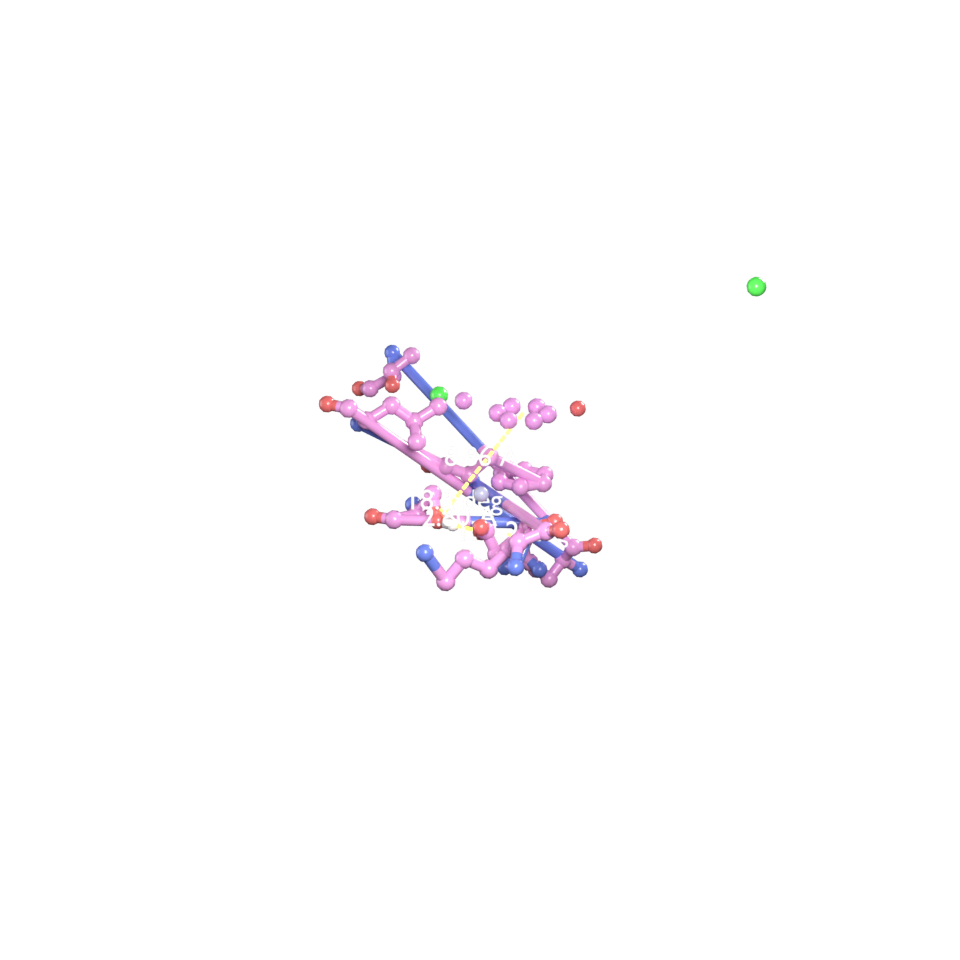
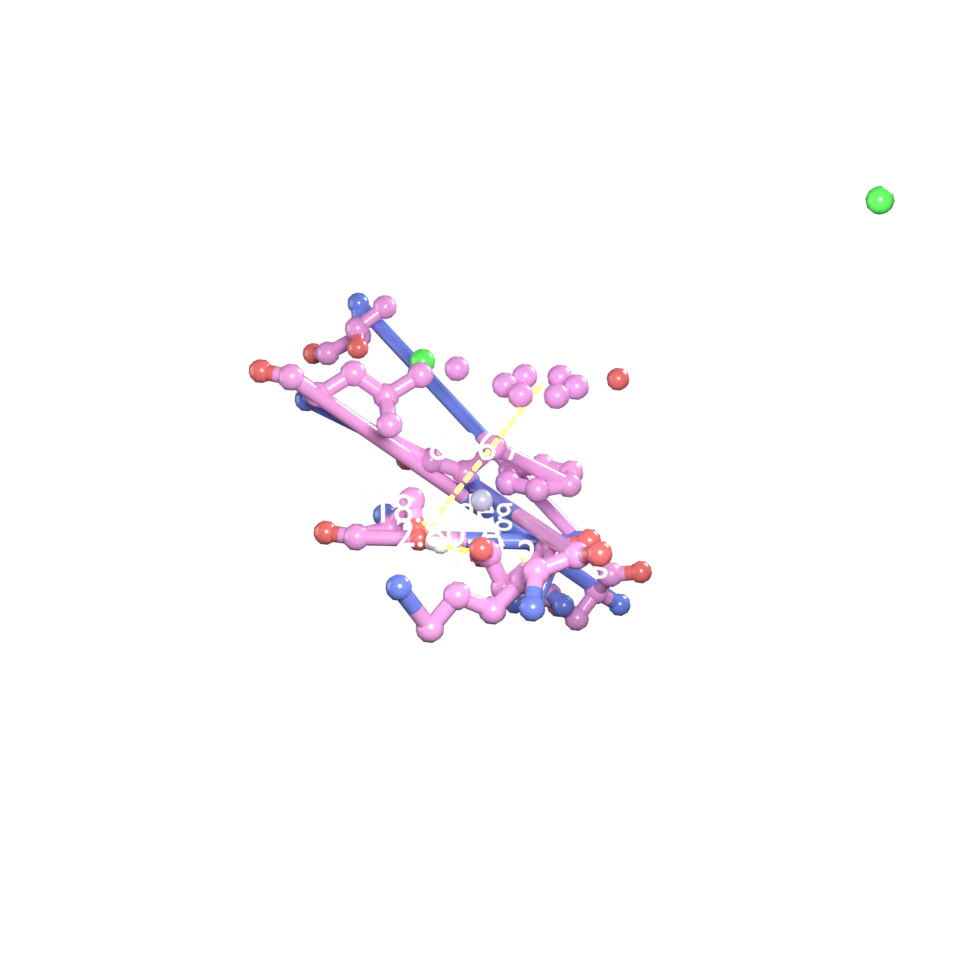
Frame the molecule, not the sphere around it
frame_target backed the camera off until the target's bounding *sphere* fit
the frame. A molecule is not a sphere: the sphere circumscribes it and the
silhouette only touches it where the single most distant atom happens to be,
so the molecule filled under half the width of every generated figure.

Project the atoms onto the camera's own axes instead and solve for the
distance at which the extreme one lands on the frame edge. A point at depth z
beyond the centre is inside the horizontal field of view while
|x| <= (d + z) * tan(h), so d = max(|x| / tan(h) - z) over every point and
both axes — perspective included, rather than assumed away. Both field-of-view
axes are used now, not the narrower one, because which one runs out of room
depends on how the molecule is turned.

margin keeps its meaning and gains precision: it multiplies the projected
extent, so 1.0 puts the outermost atom exactly on the frame edge.

Across the vignette figures the molecule went from filling 47-63% of the frame
to 67-80%. Vignettes 2 and 3 had margins of 1.3 and 1.4 hand-tuned against the
old slack, and come back to 1.15 and 1.2.

The bounding-sphere fit stays for targets with no points to project, and is
still a sphere tangent to the frustum, hence sin rather than tan.

Changed region(s): [[0.25, 0.2812, 0.6875, 0.6875], [0.9062, 0.1875, 0.9375, 0.2188], [0.7812, 0.2812, 0.8125, 0.3125]]

diff --git a/blender_gala/scene/camera.py b/blender_gala/scene/camera.py
@@ -4,6 +4,10 @@ Molecular Nodes' ``Camera`` helper adjusts an existing camera. Gala adds the
 part that matters when you have just imported a structure and there is either
 no camera or one pointing at nothing: put a camera somewhere sensible and frame
 the molecule so it fills the frame with a predictable margin.
+
+"Fills the frame" means the atoms as they project from the chosen viewpoint.
+Molecules are not spherical, and fitting the sphere around one — the usual
+shortcut, and what this did first — leaves it filling under half the frame.
 """
 
 from __future__ import annotations
@@ -81,29 +85,76 @@ def ensure_camera(scene: Any = None, lens: float = 85.0) -> Any:
     return obj
 
 
-def _fit_distance(radius: float, camera_data: Any, scene: Any, margin: float) -> float:
-    """Distance at which a sphere of ``radius`` fits the frame."""
+def _half_fov_tangents(camera_data: Any, scene: Any) -> tuple[float, float]:
+    """Return ``(horizontal, vertical)`` half-field-of-view tangents.
+
+    Both axes, rather than the narrower one, because a molecule is not round:
+    which axis it runs out of room in depends on how it is turned.
+    """
     render = scene.render
     width = render.resolution_x * render.pixel_aspect_x
     height = render.resolution_y * render.pixel_aspect_y
+    aspect = (width / height) if height else 1.0
+    lens = max(camera_data.lens, 1e-6)
 
     sensor_fit = camera_data.sensor_fit
-    if sensor_fit == "VERTICAL":
-        sensor = camera_data.sensor_height
-        extent = height
-    elif sensor_fit == "HORIZONTAL":
-        sensor = camera_data.sensor_width
-        extent = width
-    else:  # AUTO: the larger image dimension uses the sensor width
-        sensor = camera_data.sensor_width
-        extent = max(width, height)
+    if sensor_fit == "VERTICAL" or (sensor_fit == "AUTO" and height > width):
+        sensor = (
+            camera_data.sensor_height
+            if sensor_fit == "VERTICAL"
+            else camera_data.sensor_width
+        )
+        tan_v = sensor / (2.0 * lens)
+        tan_h = tan_v * aspect
+    else:  # HORIZONTAL, or AUTO where the width is the larger dimension
+        tan_h = camera_data.sensor_width / (2.0 * lens)
+        tan_v = tan_h / aspect if aspect else tan_h
 
-    # Half-angle of the *narrower* of the two field-of-view axes, so the
-    # molecule fits in both directions rather than being cropped in one.
-    aspect = min(width, height) / extent if extent else 1.0
-    half_fov = math.atan((sensor * aspect) / (2.0 * camera_data.lens))
-    half_fov = max(half_fov, 1e-3)
-    return float(radius * margin / math.sin(half_fov))
+    return max(tan_h, 1e-6), max(tan_v, 1e-6)
+
+
+def _fit_distance(radius: float, camera_data: Any, scene: Any, margin: float) -> float:
+    """Distance at which a sphere of ``radius`` fits the frame.
+
+    The fallback for targets whose individual points are not available. A
+    sphere is tangent to the frustum rather than spanning it, hence ``sin``.
+    """
+    tan_h, tan_v = _half_fov_tangents(camera_data, scene)
+    half_fov = math.atan(min(tan_h, tan_v))
+    return float(radius * margin / math.sin(max(half_fov, 1e-3)))
+
+
+def _fit_distance_to_points(
+    points: np.ndarray,
+    centre: np.ndarray,
+    basis: tuple[np.ndarray, np.ndarray, np.ndarray],
+    camera_data: Any,
+    scene: Any,
+    margin: float,
+) -> float:
+    """Distance at which every point in ``points`` is inside the frame.
+
+    Fitting the bounding *sphere* is what a camera helper usually does, and it
+    wastes most of the frame: the sphere circumscribes the molecule, so the
+    silhouette only touches it where the single most distant atom is. On the
+    vignette structures that left the molecule filling under half the width.
+
+    This projects the atoms onto the camera's own axes instead and solves for
+    the distance at which the extreme one lands on the frame edge. A point at
+    depth ``z`` beyond the centre is inside the horizontal field of view while
+    ``|x| <= (d + z) * tan(h)``, so ``d = max(|x| / tan(h) - z)`` over every
+    point and both axes. Perspective is in the ``- z``: atoms nearer the camera
+    need more room than atoms behind the centre.
+    """
+    right, up, forward = basis
+    tan_h, tan_v = _half_fov_tangents(camera_data, scene)
+
+    relative = np.asarray(points, dtype=float) - centre
+    x = np.abs(relative @ right) * margin
+    y = np.abs(relative @ up) * margin
+    depth = relative @ forward
+
+    return float((np.maximum(x / tan_h, y / tan_v) - depth).max())
 
 
 def frame_target(
@@ -123,8 +174,9 @@ def frame_target(
         A key of :data:`VIEWPOINTS`, or an ``(azimuth, elevation)`` pair in
         degrees.
     margin : float, optional
-        Extra room around the molecule. ``1.0`` is a tight fit; the default
-        leaves a little air so atoms do not touch the frame edge.
+        Extra room around the molecule, as a multiple of its projected extent.
+        ``1.0`` puts the outermost atom exactly on the frame edge; the default
+        leaves a little air so atoms do not touch it.
     camera : bpy.types.Object, optional
         Camera to move. Defaults to the scene camera, created if absent.
     scene : bpy.types.Scene, optional
@@ -161,22 +213,43 @@ def frame_target(
         azimuth, elevation = float(angles[0]), float(angles[1])
 
     centre, radius = _target_bounds(target, scene)
-    distance = _fit_distance(radius, camera.data, scene, margin)
 
+    # The viewing direction does not depend on how far away the camera ends up,
+    # so it is fixed first and the distance solved for along it.
     az = math.radians(azimuth)
     el = math.radians(elevation)
-    horizontal = distance * math.cos(el)
-    offset = np.array(
+    unit = np.array(
         [
-            horizontal * math.sin(az),
-            -horizontal * math.cos(az),
-            distance * math.sin(el),
+            math.cos(el) * math.sin(az),
+            -math.cos(el) * math.cos(az),
+            math.sin(el),
         ]
     )
 
+    # The camera's own axes, taken from the orientation it will be given, so
+    # the projection below is the one the render will use.
+    orientation = Vector((-unit).tolist()).to_track_quat("-Z", "Y")
+    basis = (
+        np.array(orientation @ Vector((1.0, 0.0, 0.0))),  # right
+        np.array(orientation @ Vector((0.0, 1.0, 0.0))),  # up
+        np.array(orientation @ Vector((0.0, 0.0, -1.0))),  # forward
+    )
+
+    points = _subject_points(target, scene)
+    if points is None or len(points) == 0:
+        distance = _fit_distance(radius, camera.data, scene, margin)
+    else:
+        distance = _fit_distance_to_points(
+            points, centre, basis, camera.data, scene, margin
+        )
+        # Framing the silhouette can put the camera inside a molecule seen
+        # end-on, where the extent across the view is small and the extent
+        # along it is not.
+        distance = max(distance, radius * 1.25)
+
+    offset = unit * distance
     camera.location = tuple(float(v) for v in (centre + offset))
-    direction = Vector((-offset).tolist())
-    camera.rotation_euler = direction.to_track_quat("-Z", "Y").to_euler()
+    camera.rotation_euler = orientation.to_euler()
 
     camera.data.clip_start = max(1e-4, distance - radius * 4.0)
     camera.data.clip_end = distance + radius * 8.0
@@ -189,6 +262,44 @@ def _target_bounds(target: Any, scene: Any) -> tuple[np.ndarray, float]:
     from .lighting import _subject_bounds
 
     return _subject_bounds(target, scene)
+
+
+def _subject_points(target: Any, scene: Any) -> np.ndarray | None:
+    """World-space points to fit in the frame, or ``None`` if there are none.
+
+    Atom positions when the target is a molecule, and bounding-box corners
+    otherwise: a box is still a much closer fit than the sphere around it.
+    """
+    from ..core.entity import AtomStructure
+
+    if target is not None:
+        try:
+            structure = AtomStructure.from_any(target)
+        except Exception:
+            structure = None
+        if structure is not None and structure.n_atoms and structure.object is not None:
+            return structure.world_positions()
+
+    if bpy is None:
+        return None
+
+    if isinstance(target, bpy.types.Object):
+        objects = [target]
+    elif target is None:
+        objects = [
+            obj
+            for obj in scene.objects
+            if obj.type == "MESH" and not obj.get("gala") and obj.visible_get()
+        ]
+    else:
+        return None
+
+    corners = [
+        np.array(obj.matrix_world @ Vector(corner))
+        for obj in objects
+        for corner in obj.bound_box
+    ]
+    return np.asarray(corners) if corners else None
 
 
 def orbit(

diff --git a/tests/test_scene.py b/tests/test_scene.py
@@ -440,6 +440,41 @@ def test_frame_target_fits_the_molecule(site_molecule):
     assert 0.0 <= projected.y <= 1.0
 
 
+@requires_mn
+def test_framing_is_tight_to_the_projected_atoms(site_molecule):
+    """Every atom inside the frame, and one of them near its edge.
+
+    Fitting the bounding sphere instead leaves the molecule filling under half
+    the frame, because the sphere only touches the silhouette where the single
+    most distant atom is.
+    """
+    import bpy
+    from bpy_extras.object_utils import world_to_camera_view
+    from mathutils import Vector
+
+    from blender_gala.core.entity import AtomStructure
+    from blender_gala.scene import camera, render
+
+    render.set_resolution(800, 800)
+    structure = AtomStructure.from_any(site_molecule)
+    margin = 1.15
+
+    obj = camera.frame_target(structure, viewpoint="iso", margin=margin)
+
+    projected = np.array(
+        [
+            world_to_camera_view(bpy.context.scene, obj, Vector(point.tolist()))[:2]
+            for point in structure.world_positions()
+        ]
+    )
+    assert projected.min() >= 0.0 and projected.max() <= 1.0, "an atom fell outside"
+
+    # Half of 1/margin of the frame, measured from the centre: the outermost
+    # atom has to reach it on at least one axis, or the fit is not a fit.
+    reach = np.abs(projected - 0.5).max()
+    assert reach > 0.5 / margin - 0.06, f"framing is loose: reach {reach:.3f}"
+
+
 # ---------------------------------------------------------------------------
 # Compositing
 # ---------------------------------------------------------------------------

diff --git a/vignettes/02_binding_site.py b/vignettes/02_binding_site.py
@@ -133,7 +133,9 @@ gala.label_hud(mol, "Ligand binding site", location=(0.04, 0.95), size=28)
 # ---------------------------------------------------------------------------
 heading("6. Frame the site rather than the whole protein")
 # ---------------------------------------------------------------------------
-gala.frame_target(mol, viewpoint="iso", margin=1.3)
+# The margin only has to clear the labels and dashes drawn around the
+# molecule; the framing itself is now tight to the atoms.
+gala.frame_target(mol, viewpoint="iso", margin=1.15)
 gala.depth_of_field(mol, fstop=4.0)
 
 

diff --git a/vignettes/03_measurements.py b/vignettes/03_measurements.py
@@ -112,5 +112,5 @@ for selections in (
 # ---------------------------------------------------------------------------
 heading("7. Render")
 # ---------------------------------------------------------------------------
-gala.frame_target(mol, viewpoint="iso", margin=1.4)
+gala.frame_target(mol, viewpoint="iso", margin=1.2)
 render(gala, "03_measurements")

diff --git a/docs/guide/scenes.md b/docs/guide/scenes.md
@@ -201,6 +201,14 @@ molecule's proportions honest) and backs it off until the molecule fits with
 the given margin. Viewpoints: `front`, `back`, `left`, `right`, `top`,
 `bottom`, `iso`, or an `(azimuth, elevation)` pair in degrees.
 
+The fit is to the atoms as they project from that viewpoint, not to the sphere
+around them, so `margin=1.0` puts the outermost atom on the frame edge and
+`1.15` leaves 15% air. Fitting the bounding sphere — the usual shortcut — backs
+the camera off far enough for the *most distant single atom* in any direction,
+which on a typical protein wastes about half the frame. One atom well away from
+the rest still costs you the whole frame, because it has to be in it: frame a
+selection instead if you would rather it were not.
+
 A turntable:
 
 ```python
